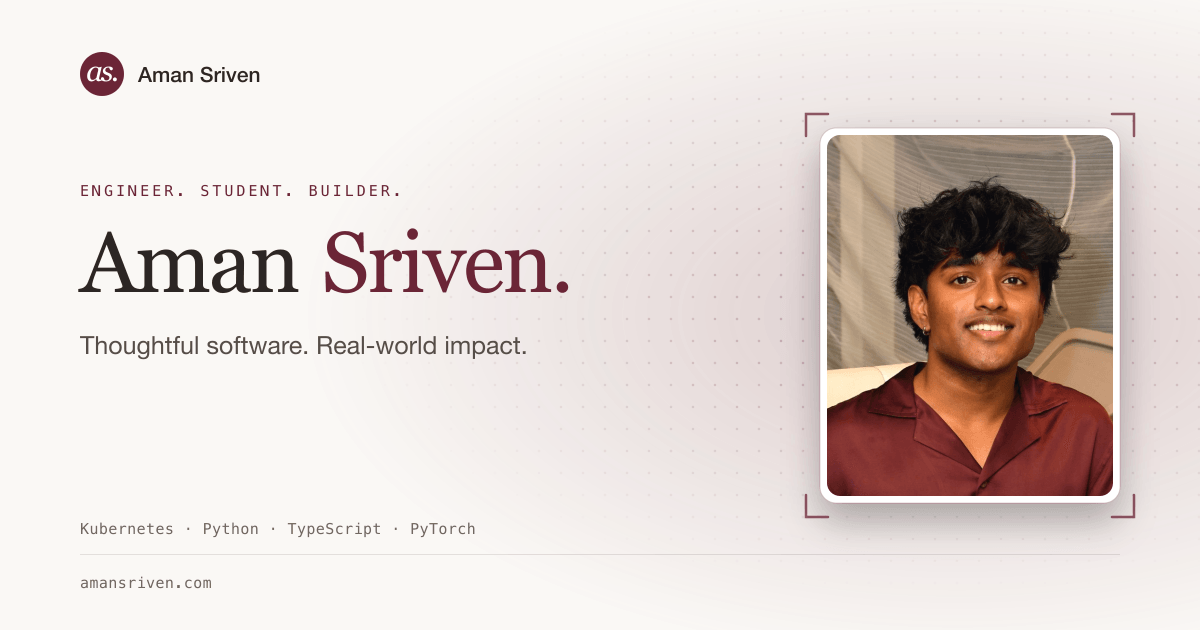
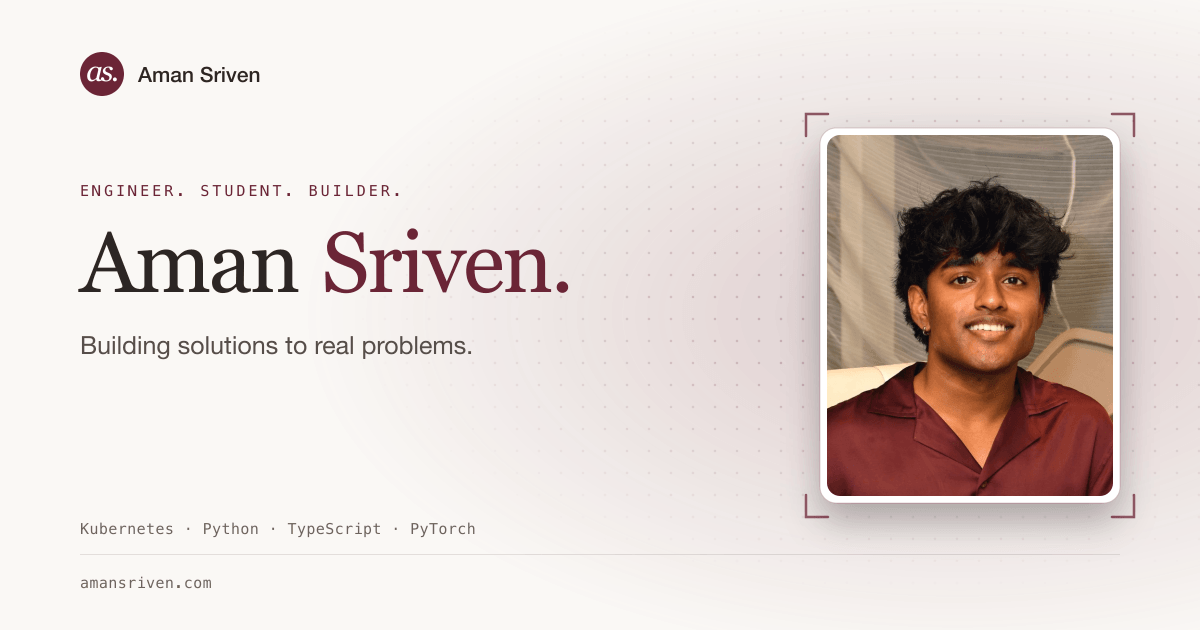
feat: update hero tagline and experience summaries for clarity and impact

Changed region(s): [[0.0617, 0.5127, 0.4317, 0.573]]

diff --git a/src/lib/experience.ts b/src/lib/experience.ts
@@ -102,7 +102,7 @@ export const experience: Experience[] = [
     story: {
       swe: {
         summary:
-          'Built a multi-provider AI gateway on Azure Kubernetes, with a FastAPI and PostgreSQL control plane for roles, sessions, and API keys.',
+          'On Enterprise AI’s GenAI Core Capabilities team, built a multi-provider AI gateway on Azure Kubernetes with a FastAPI and PostgreSQL control plane for roles, sessions, and API keys.',
         stack: ['Kubernetes', 'Envoy', 'FastAPI', 'PostgreSQL', 'Redis', 'Prometheus', 'Grafana'],
         metrics: [
           { value: '450K+', label: 'requests routed per day' },
@@ -116,7 +116,7 @@ export const experience: Experience[] = [
          reason. */
       ml: {
         summary:
-          'Built the gateway that routes model traffic to Azure OpenAI and Gemini, with bounded streaming retries and automatic provider failover.',
+          'On Enterprise AI’s GenAI Core Capabilities team, built the gateway routing model traffic to Azure OpenAI and Gemini, with bounded streaming retries and automatic failover.',
         stack: ['Azure OpenAI', 'Gemini', 'MCP', 'SSE', 'Envoy', 'Redis', 'Kubernetes'],
         metrics: [
           { value: '450K+', label: 'model requests routed per day' },
